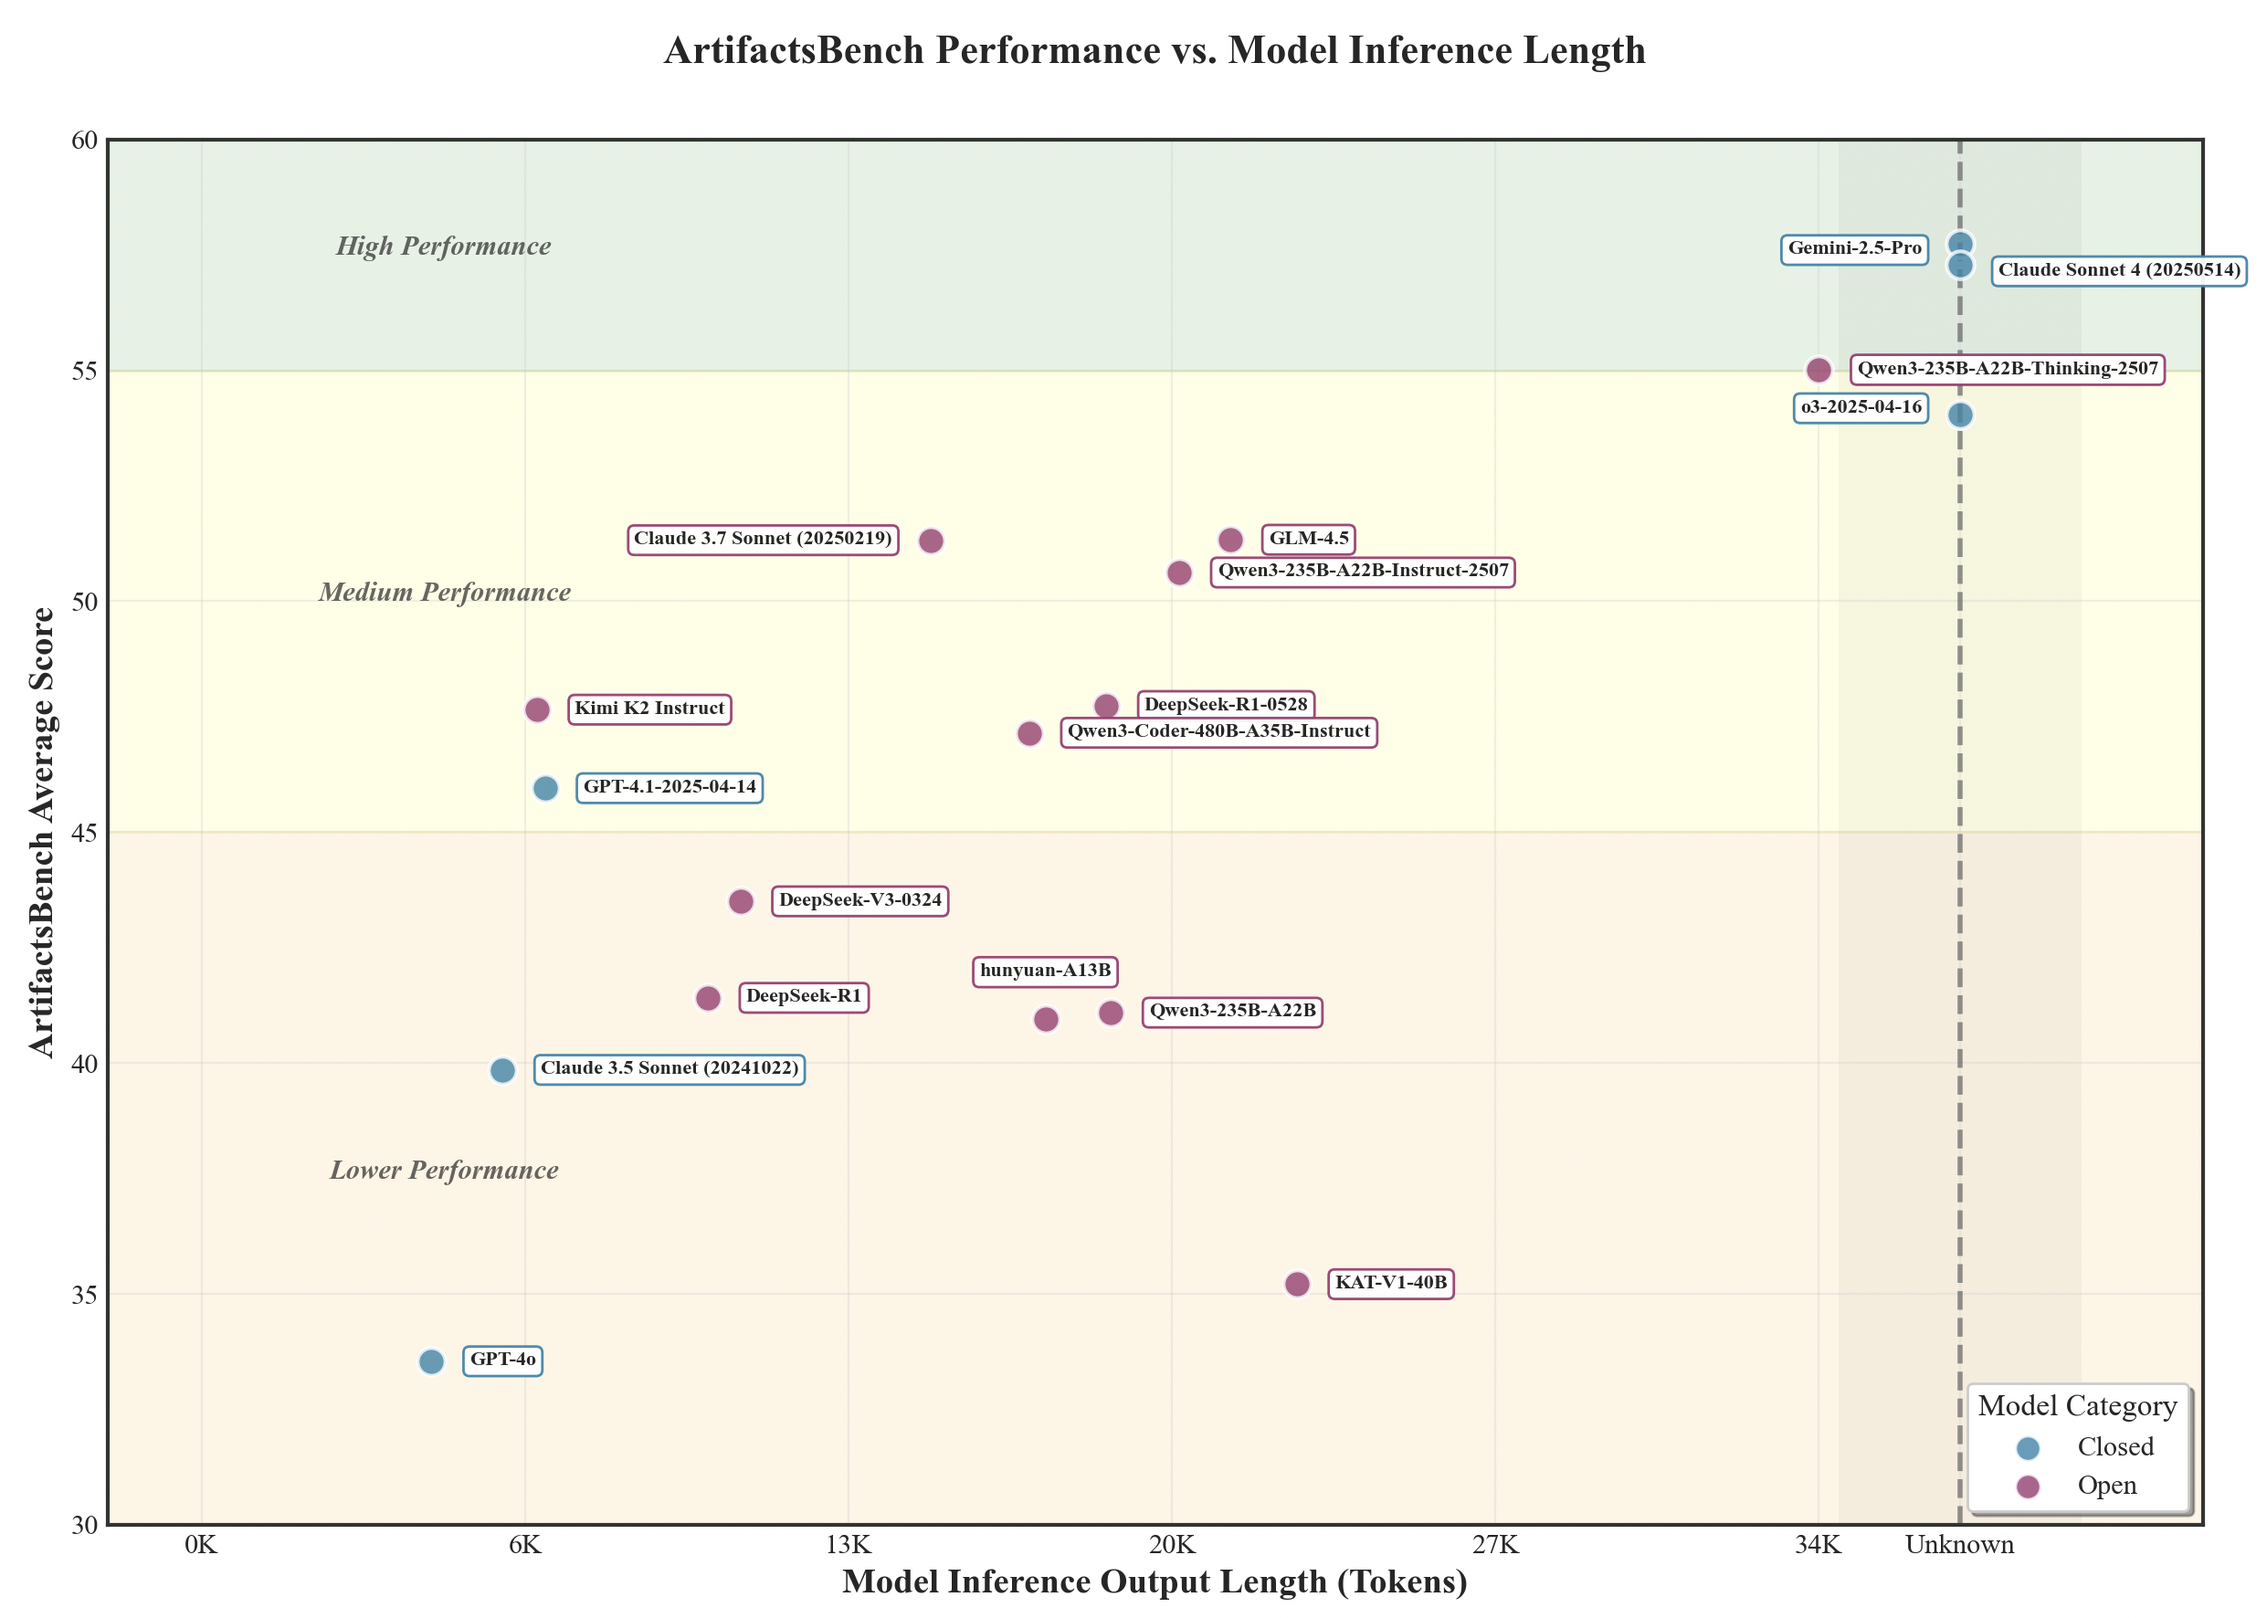
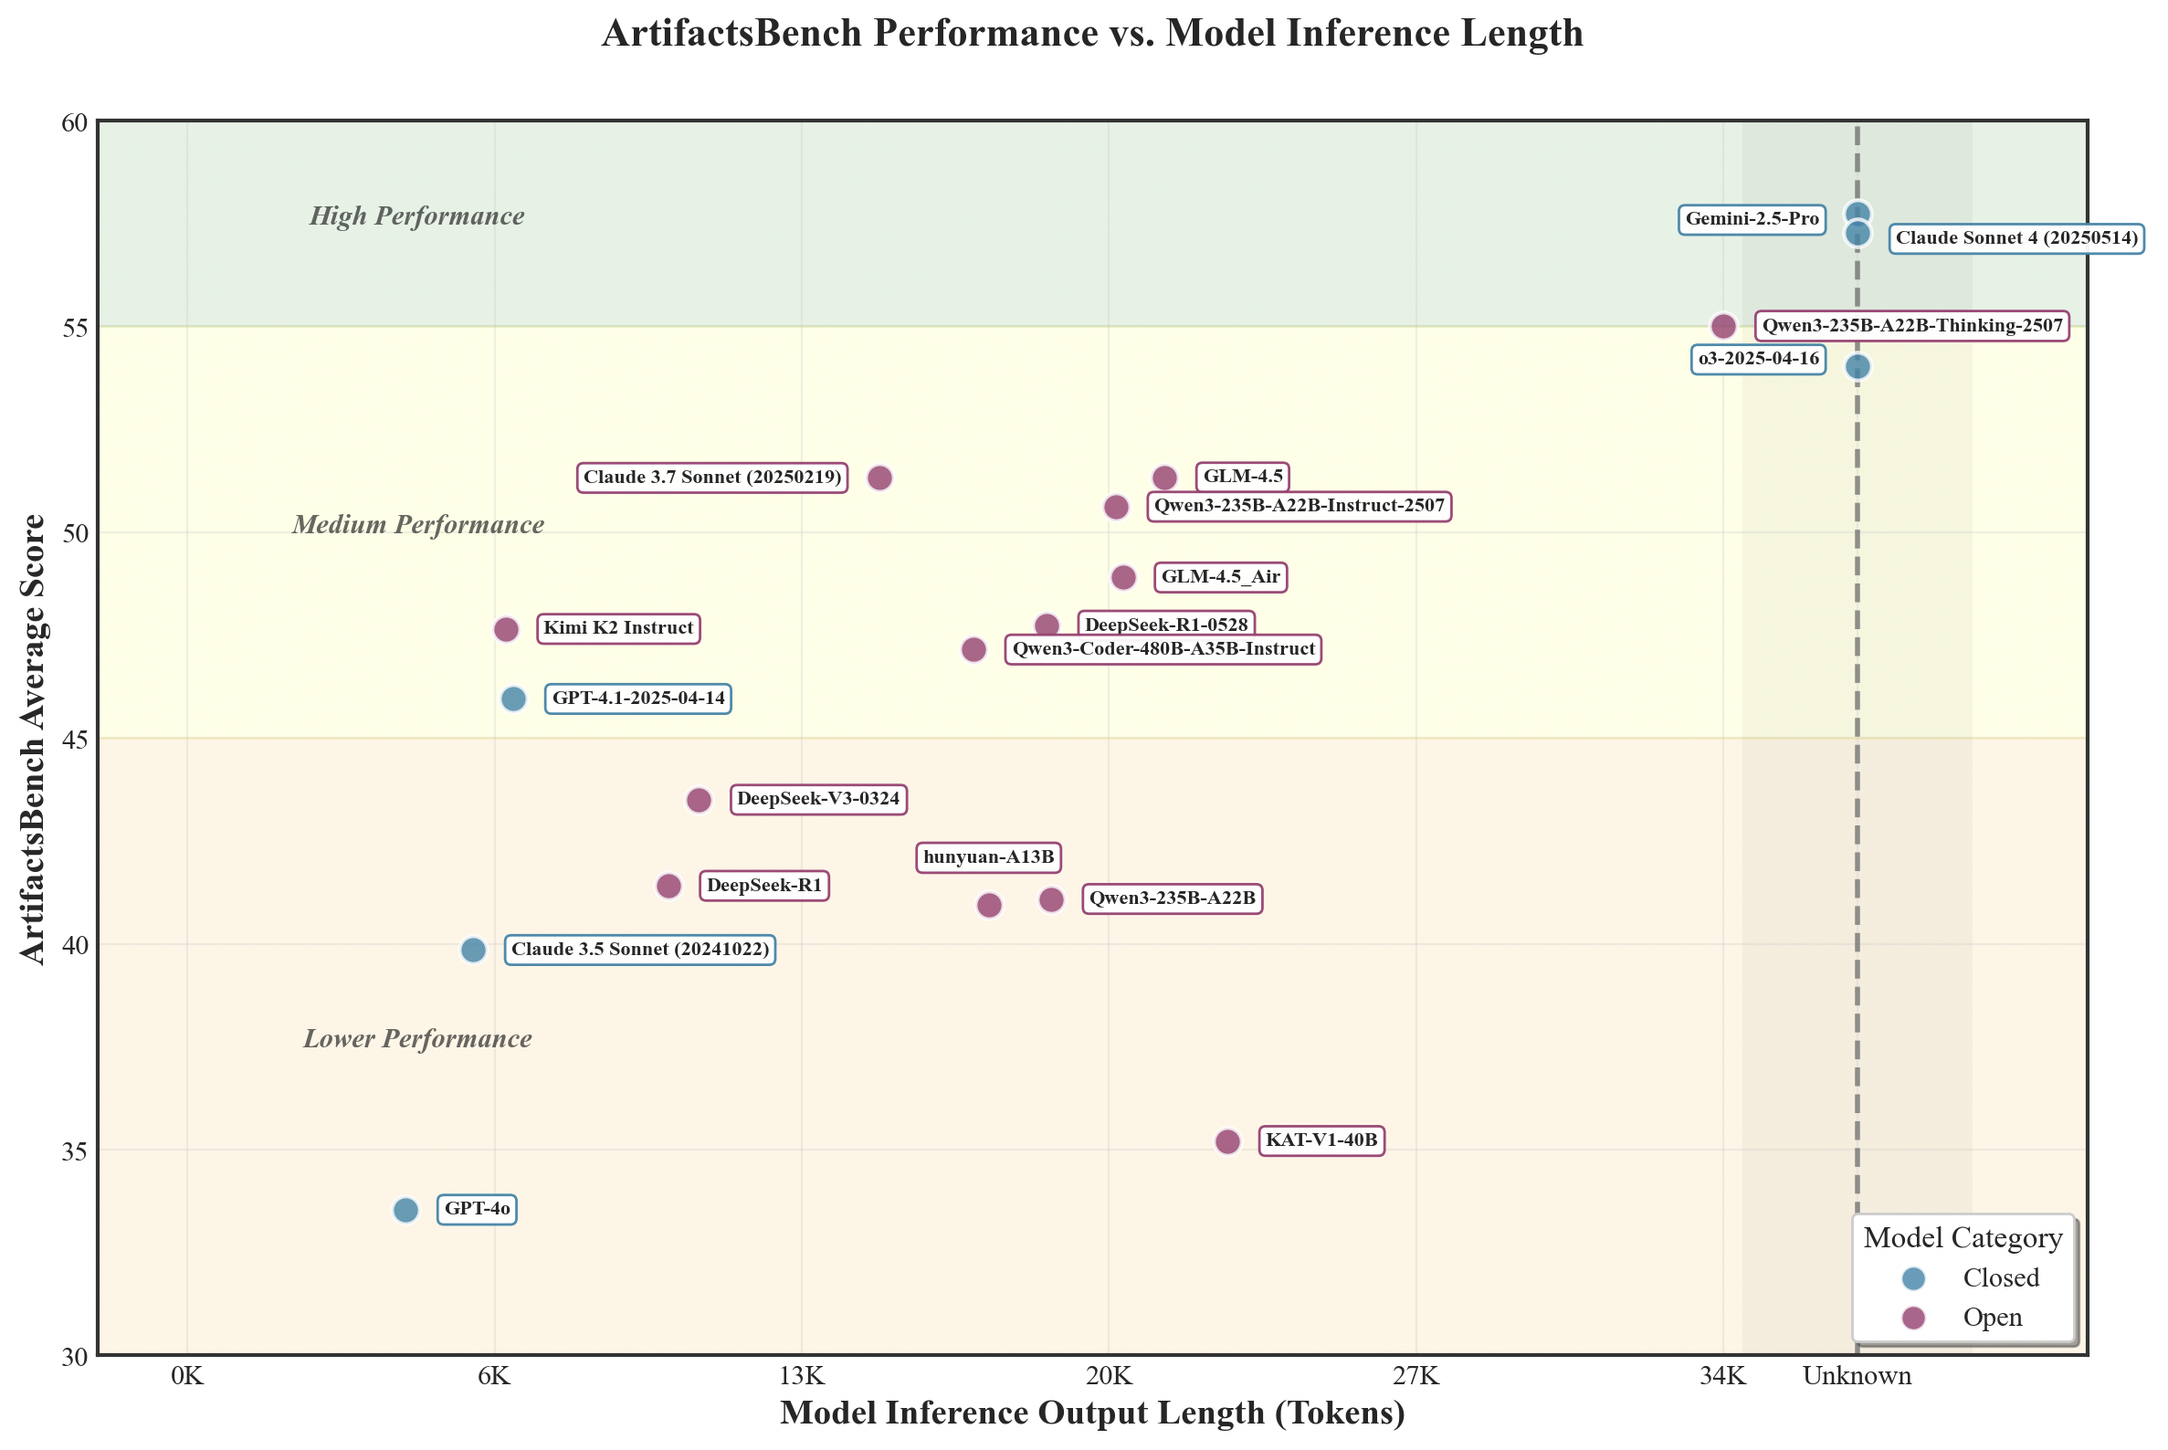
update_glm_4.5_air

diff --git a/src/vis_ga_gemini_2.5.py b/src/vis_ga_gemini_2.5.py
@@ -16,6 +16,7 @@ data = {
         'Qwen3-235B-A22B-Thinking-2507',
         'o3-2025-04-16',
         'GLM-4.5',
+        'GLM-4.5_Air',
         'Claude 3.7 Sonnet (20250219)',
         'Qwen3-235B-A22B-Instruct-2507',
         'DeepSeek-R1-0528',
@@ -36,6 +37,7 @@ data = {
         55.01,
         54.04,
         51.33,
+        48.90,
         51.32,
         50.62,
         47.73,
@@ -56,6 +58,7 @@ data = {
         'Open-Source',    # Qwen3-235B-A22B-Thinking-2507
         'Closed-Source',  # o3-2025-04-16
         'Open-Source',    # GLM-4.5
+        'Open-Source',    # GLM-4.5_Air
         'Closed-Source',  # Claude 3.7 Sonnet (20250219)
         'Open-Source',    # Qwen3-235B-A22B-Instruct-2507
         'Open-Source',    # DeepSeek-R1-0528

diff --git a/src/plot_len_and_acc.py b/src/plot_len_and_acc.py
@@ -27,6 +27,7 @@ data = {
     "Qwen3-235B-A22B-Thinking-2507": {"AVG": 55.01, "IFLEN": 34357.84, "category": "open"},
     "o3-2025-04-16": {"AVG": 54.04, "IFLEN": 0, "category": "closed"},
     "GLM-4.5": {"AVG": 51.33, "IFLEN": 21854.10, "category": "open"},
+    "GLM-4.5_Air": {"AVG": 48.90, "IFLEN": 20925.02, "category": "open"},
     "Claude 3.7 Sonnet (20250219)": {"AVG": 51.32, "IFLEN": 15480.06, "category": "open"},
     "Qwen3-235B-A22B-Instruct-2507": {"AVG": 50.62, "IFLEN": 20765.47, "category": "open"},
     "DeepSeek-R1-0528": {"AVG": 47.73, "IFLEN": 19215.71, "category": "open"},
